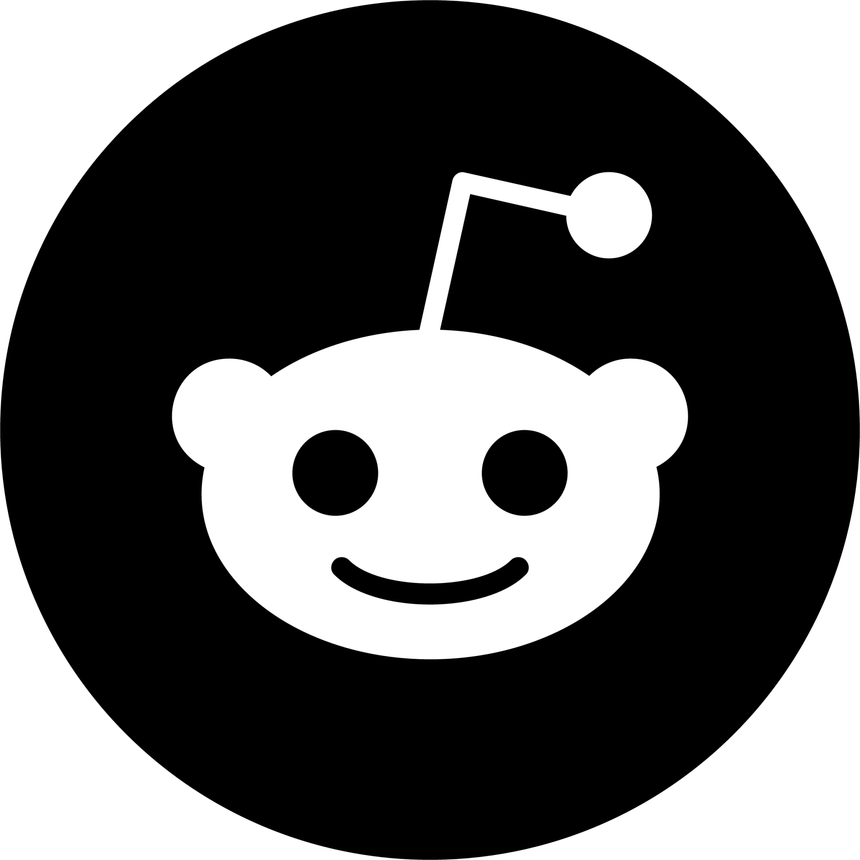
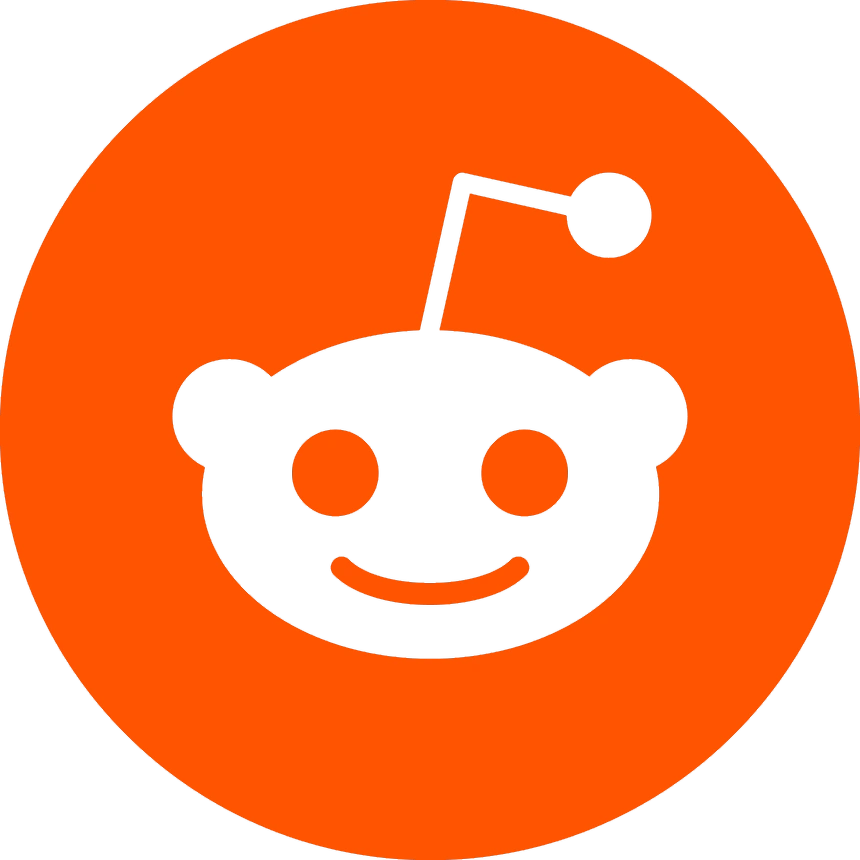
Snapshot layout of the new homepage

diff --git a/DDMC/components/homepage/socials.vue b/DDMC/components/homepage/socials.vue
@@ -1,0 +1,179 @@
+<template>
+    <header class="header" :style="{ backgroundImage: 'url(' + currentImageUrl + ')' }">
+      <div class="image-overlay"></div>
+      <nav>
+          <p class="header-text">
+            Connect with <br/>us more
+          </p>
+          
+          <a :href="redditLink" target="_blank">
+            <img src="/assets/gui/reddit.webp" class="reddit-sprite" alt="Reddit" @mouseenter="playHoverSound">
+          </a>
+          <a :href="discordLink" target="_blank">
+            <img src="/assets/gui/discord.webp" class="discord-sprite" alt="Discord" @mouseenter="playHoverSound">
+          </a>
+          <a :href="evilRedditLink" target="_blank">
+            <img src="/assets/gui/evilreddit.webp" class="evil-reddit-sprite" alt="Circlejerk" @mouseenter="playHoverSound">
+          </a>
+      </nav>
+    </header>
+  </template>
+  
+  <script>
+  export default {
+    data() {
+      return {
+        images: [
+          "/assets/test_folder/10.png",
+        ],
+        preloadedImages: [],
+        currentImageIndex: 0,
+        interval: null,
+        duration: 5000,
+        redditLink: 'https://www.reddit.com/r/DDMC/',
+        discordLink: 'https://discord.gg/HZKb8EQu9a',
+        evilRedditLink: 'https://www.reddit.com/r/a:t5_1x7m5e/',
+      };
+    },
+    computed: {
+      currentImageUrl() {
+        return this.images[this.currentImageIndex];
+      },
+    },
+    methods: {
+      playHoverSound(event) {
+        const hoverSound = new Audio('/assets/sfx/hover.wav');
+        hoverSound.play();
+      },
+      preloadImages() {
+        this.images.forEach((image) => {
+          const img = new Image();
+          img.src = image;
+          this.preloadedImages.push(img);
+        });
+      },
+      startImageTransition() {
+        this.interval = setInterval(() => {
+          this.currentImageIndex = (this.currentImageIndex + 1) % this.images.length;
+        }, this.duration);
+      },
+    },
+    mounted() {
+      this.preloadImages();
+      this.startImageTransition();
+    },
+    beforeDestroy() {
+      clearInterval(this.interval);
+    },
+  };
+  </script>
+  
+  
+  <style scoped>
+    .resolution-warning {
+        display: none;
+        color: #fff;
+        position: fixed;
+        width: 100%;
+        text-align: center;
+        margin-top: 360px;
+        font-size: 16px;
+        z-index: 1000;
+        top: 0;
+        left: 0;
+      }
+  
+      @media (max-width: 1023px) {
+        .resolution-warning {
+          display: block;
+        }
+        .header {
+          display: none;
+        }
+      }
+  
+      @font-face {
+        font-family: 'Hot Mustard BTN Regular';
+        src: url('/assets/fonts/HotMustardBTNRegular.ttf') format('truetype');
+        font-weight: normal;
+        font-style: normal;
+      }
+  
+      @media (min-width: 1024px) {
+        .header {
+          width: 100vw;
+          height: 100vh;
+          background-size: cover;
+          background-position: center;
+          display: flex;
+          transition: background-image 2s ease-in-out;
+          position: relative;
+        }
+  
+        .image-overlay {
+          position: absolute;
+          top: 0;
+          left: 0;
+          width: 100%;
+          height: 100%;
+          background-color: rgba(0, 0, 0, 0.5);
+          z-index: 2;
+        }
+  
+        .header-text {
+          font-size: 5vw;
+          font-family: 'Hot Mustard BTN Regular', monospace;
+          color: white;
+          text-shadow: 2px 2px 4px rgba(0, 0, 0, 0.5);
+          top: 10%;
+          left: 10%;
+          text-align: center;
+          transform: rotate(0deg);
+          animation: pulse 8s linear infinite;
+          position: relative;
+          z-index: 4;
+        }
+  
+        .reddit-sprite {
+          position: absolute;
+          left: 27%;
+          bottom: 37%;
+          width: 10vw;
+          height: auto;
+          z-index: 5;
+          transition: transform 0.3s ease-in-out;
+        }
+        .discord-sprite {
+          position: absolute;
+          left: 8%;
+          bottom: 40%;
+          width: 10vw;
+          height: auto;
+          z-index: 6;
+          transition: transform 0.3s ease-in-out;
+        }
+        .evil-reddit-sprite {
+          position: absolute;
+          left: 0%;
+          bottom: 0px;
+          width: 3vw;
+          height: auto;
+          z-index: 7;
+          transition: transform 0.3s ease-in-out;
+        }
+
+        .reddit-sprite:hover, .discord-sprite:hover, .evil-reddit-sprite:hover {
+            opacity: 0.8;
+            transform: scale(1.05) rotate(0deg);
+        } 
+    }
+  
+      @keyframes pulse {
+        0% { text-shadow: 0 0 10px rgba(255, 255, 255, 0.8); }
+        20% { text-shadow: 0 0 10px rgba(255, 0, 0, 0.8); }
+        40% { text-shadow: 0 0 10px rgba(0, 255, 0, 0.8); }
+        60% { text-shadow: 0 0 10px rgba(255, 192, 203, 0.8); }
+        80% { text-shadow: 0 0 10px rgba(148, 0, 211, 0.8); }
+        100% { text-shadow: 0 0 10px rgba(255, 255, 255, 0.8); }
+      }
+  </style>

diff --git a/DDMC/components/homepage/header.vue b/DDMC/components/homepage/header.vue
@@ -6,7 +6,7 @@
     <div class="image-overlay"></div>
     <nav>
         <p class="header-text">
-          DOKI DOKI <br/> MODDING CENTRAL
+          DOKI DOKI <br/>MODDING CENTRAL
         </p>
         
         <img src="/assets/test_folder/monika.png" class="monika-sprite" alt="Monika">
@@ -82,10 +82,10 @@ export default {
       position: fixed;
       width: 100%;
       text-align: center;
-      margin-top: 360px;
+      margin-top: 0px;
       font-size: 16px;
       z-index: 1000;
-      top: 0;
+      top: 40%;
       left: 0;
     }
 
@@ -131,7 +131,7 @@ export default {
         font-family: 'Hot Mustard BTN Regular', monospace;
         color: white;
         text-shadow: 2px 2px 4px rgba(0, 0, 0, 0.5);
-        top: 12vh;
+        top: 30%;
         text-align: center;
         transform: rotate(-15deg);
         animation: pulse 8s linear infinite;

diff --git a/DDMC/layouts/default.vue b/DDMC/layouts/default.vue
@@ -6,6 +6,7 @@
         <div class="content">
           <Hotbar/>
           <Header v-if="isHomePage" />
+          <Socials v-if="isHomePage" />
           <slot/>
         </div>
         <Footer class="footer"/>
@@ -19,6 +20,7 @@ import Footer from '../components/universal/footer.vue'
 import BackgroundImage from '../components/universal/background.vue'
 import Hotbar from '../components/universal/hotbar.vue'
 import Header from '../components/homepage/header.vue'
+import Socials from '../components/homepage/socials.vue'
 
 export default {
   components: {
@@ -26,6 +28,7 @@ export default {
     Footer,
     BackgroundImage,
     Header,
+    Socials,
   },
   computed: {
     isHomePage() {

diff --git a/DDMC/pages/patchnotes.vue b/DDMC/pages/patchnotes.vue
@@ -19,6 +19,15 @@ export default {
     return {
       versions: [
         {
+          version: 'Beta 1.0.0',
+          notes: [
+            'Completely overhauled the home page--starting with splash and socials (more to be added soon)',
+            'Recolored Reddit button',
+            'Restructured the file hierarchy for the home page',
+            'Restructured the file hierarchy for universal layout components',
+          ]
+        },
+        {
           version: 'Alpha 1.1.4',
           notes: [
             'Started rolling out tab titles for each page',

diff --git a/DDMC/components/universal/footer.vue b/DDMC/components/universal/footer.vue
@@ -2,7 +2,7 @@
 <template>
     <footer class="footer">
       <div class="footer-content">
-        <p>&copy; Doki Doki Modding Central, ver. Beta 1.0.0.</p>
+        <p>&copy; Doki Doki Modding Central, ver. Snapshot Beta 1.0.0.</p>
         <p>This website is not affiliated with Team Salvato.</p>
       </div>
     </footer>
